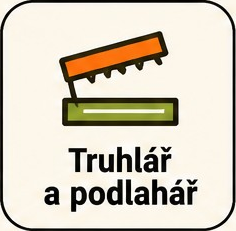
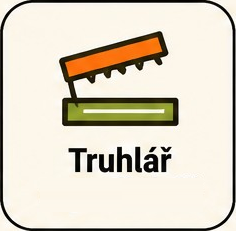
Rename Truhlář and podlahář category to Truhlář

Changed region(s): [[0.2966, 0.7576, 0.8602, 0.9394], [0.178, 0.7879, 0.2669, 0.9091]]

diff --git a/index.html b/index.html
@@ -740,7 +740,7 @@ html body .hero-copy h1 em::after{all:unset!important;content:none!important;dis
 <section class="request" id="poptavka">
 <form id="repair-form">
 <div class="form-grid">
-<div class="field"><label for="type">Typ opravy</label><div class="input-wrap"><svg viewBox="0 0 24 24" fill="none" stroke="currentColor" stroke-width="2"><path d="m14.7 6.3 3 3M3 21l7.6-7.6M15 5l4-4 4 4-4 4M2 2l6 6m-3-7 6 6"/></svg><select id="type" aria-required="true"><option value="">Vyberte typ opravy</option><option>Instalatér</option><option>Elektrikář</option><option>Spotřebiče</option><option>Dveře a okna</option><option>Střecha</option><option>Hodinový manžel</option><option>Zedník a obkladač</option><option>Malíř a natěrač</option><option>Pokrývač a klempíř</option><option>Truhlář a podlahář</option><option>Topenář</option><option>Ploty a brány</option><option>Zámečník</option><option>Klimatizace a vzduchotechnika</option><option>Žaluzie a rolety</option><option>Sklenář</option><option>Podlahář</option><option>Sádrokartonář</option><option>Fasády a zateplení</option><option>Kominík</option><option>Opravy garážových vrat</option><option>Zahradník</option><option>Úklid a čištění</option><option>Výkopové práce</option><option>Bourací a demoliční práce</option></select><div class="repair-type-picker" id="repair-type-picker"><button class="repair-type-trigger" type="button" aria-haspopup="listbox" aria-expanded="false" aria-controls="repair-type-options"><span id="repair-type-label">Vyberte typ opravy</span><svg viewBox="0 0 24 24" aria-hidden="true"><path d="m6 9 6 6 6-6"/></svg></button><div class="repair-type-options" id="repair-type-options" role="listbox" aria-label="Typ opravy" hidden></div></div></div></div>
+<div class="field"><label for="type">Typ opravy</label><div class="input-wrap"><svg viewBox="0 0 24 24" fill="none" stroke="currentColor" stroke-width="2"><path d="m14.7 6.3 3 3M3 21l7.6-7.6M15 5l4-4 4 4-4 4M2 2l6 6m-3-7 6 6"/></svg><select id="type" aria-required="true"><option value="">Vyberte typ opravy</option><option>Instalatér</option><option>Elektrikář</option><option>Spotřebiče</option><option>Dveře a okna</option><option>Střecha</option><option>Hodinový manžel</option><option>Zedník a obkladač</option><option>Malíř a natěrač</option><option>Pokrývač a klempíř</option><option>Truhlář</option><option>Topenář</option><option>Ploty a brány</option><option>Zámečník</option><option>Klimatizace a vzduchotechnika</option><option>Žaluzie a rolety</option><option>Sklenář</option><option>Podlahář</option><option>Sádrokartonář</option><option>Fasády a zateplení</option><option>Kominík</option><option>Opravy garážových vrat</option><option>Zahradník</option><option>Úklid a čištění</option><option>Výkopové práce</option><option>Bourací a demoliční práce</option></select><div class="repair-type-picker" id="repair-type-picker"><button class="repair-type-trigger" type="button" aria-haspopup="listbox" aria-expanded="false" aria-controls="repair-type-options"><span id="repair-type-label">Vyberte typ opravy</span><svg viewBox="0 0 24 24" aria-hidden="true"><path d="m6 9 6 6 6-6"/></svg></button><div class="repair-type-options" id="repair-type-options" role="listbox" aria-label="Typ opravy" hidden></div></div></div></div>
 <div class="field"><label for="place">Město / PSČ</label><div class="input-wrap"><svg viewBox="0 0 24 24" fill="none" stroke="currentColor" stroke-width="2" aria-hidden="true"><path d="M20 10c0 5-8 12-8 12S4 15 4 10a8 8 0 1 1 16 0Z"/><circle cx="12" cy="10" r="2.5"/></svg><input id="place" placeholder="Např. Praha, 120 00" required><button id="place-geolocate" class="place-locate" type="button" aria-label="Použít moji polohu" title="Použít moji polohu"><svg viewBox="0 0 24 24" aria-hidden="true"><circle cx="12" cy="12" r="7"/><circle cx="12" cy="12" r="2"/><path d="M12 1v4m0 14v4M1 12h4m14 0h4"/></svg></button></div><p id="place-location-feedback" class="location-feedback" role="status" aria-live="polite"></p></div>
 <div class="field"><label for="contact">Telefonní číslo *</label><div class="input-wrap"><svg viewBox="0 0 24 24" fill="none" stroke="currentColor" stroke-width="2"><rect x="2" y="5" width="20" height="14" rx="2"/><path d="m3 7 9 7 9-7"/></svg><input id="contact" type="tel" inputmode="tel" placeholder="Např. +420 777 123 456" autocomplete="tel" minlength="9" maxlength="25" pattern="[+0-9 ()-]{9,25}" title="Zadejte platné telefonní číslo (alespoň 9 číslic)" required></div></div>
 <div class="field"><label for="customer-email">E-mail *</label><div class="input-wrap"><svg viewBox="0 0 24 24" fill="none" stroke="currentColor" stroke-width="2" aria-hidden="true"><rect x="2" y="5" width="20" height="14" rx="2"/><path d="m3 7 9 7 9-7"/></svg><input id="customer-email" type="email" autocomplete="email" placeholder="vas@email.cz" maxlength="254" required></div></div>
@@ -748,7 +748,7 @@ html body .hero-copy h1 em::after{all:unset!important;content:none!important;dis
 </div><p class="privacy-consent">Odesláním poptávky berete na vědomí <a href="/ochrana-osobnich-udaju.html">informace o zpracování osobních údajů</a> a <a href="/podminky.html">podmínky služby</a>.</p><div class="privacy-consent" style="margin-top:10px"><label style="display:flex;align-items:flex-start;gap:8px;cursor:pointer"><input id="coupon-opt-in" type="checkbox" style="margin-top:3px;accent-color:#e94e1b"><span>Chci dostávat e-mailem slevové kupóny a nabídky Opravao.cz podle svého kraje a typu opravy. Souhlas je dobrovolný a lze ho kdykoliv odvolat.</span></label><div id="coupon-region-wrap" hidden style="margin:10px 0 0 26px"><label for="coupon-region" style="display:block;font-weight:700;margin-bottom:6px">Kraj pro nabídky</label><select id="coupon-region" style="width:100%;max-width:420px;padding:10px;border:1px solid #d8d4ca;border-radius:7px;background:#fff"><option value="">Vyberte kraj</option><option>Hlavní město Praha</option><option>Středočeský kraj</option><option>Jihočeský kraj</option><option>Plzeňský kraj</option><option>Karlovarský kraj</option><option>Ústecký kraj</option><option>Liberecký kraj</option><option>Královéhradecký kraj</option><option>Pardubický kraj</option><option>Kraj Vysočina</option><option>Jihomoravský kraj</option><option>Olomoucký kraj</option><option>Zlínský kraj</option><option>Moravskoslezský kraj</option></select></div></div><p id="status" role="status"></p>
 </form>
 </section>
-<section class="services" aria-label="Nejčastější opravy"><div class="service-row"><button class="service" type="button" aria-pressed="false"><img class="service-exact-art" src="/assets/service-icons/service-01.webp" alt="" decoding="async"><span class="service-label">Instalatér</span></button><button class="service" type="button" aria-pressed="false"><img class="service-exact-art" src="/assets/service-icons/service-02.webp" alt="" decoding="async"><span class="service-label">Elektrikář</span></button><button class="service" type="button" aria-pressed="false"><img class="service-exact-art" src="/assets/service-icons/service-03.webp" alt="" decoding="async"><span class="service-label">Spotřebiče</span></button><button class="service" type="button" aria-pressed="false"><img class="service-exact-art" src="/assets/service-icons/service-04.webp" alt="" decoding="async"><span class="service-label">Dveře<br>a okna</span></button><button class="service" type="button" aria-pressed="false"><img class="service-exact-art" src="/assets/service-icons/service-05.webp" alt="" decoding="async"><span class="service-label">Střecha</span></button><button class="service" type="button" aria-pressed="false"><img class="service-exact-art" src="/assets/service-icons/service-06.webp" alt="" decoding="async"><span class="service-label">Hodinový<br>manžel</span></button></div><div class="service-row"><button class="service" type="button" aria-pressed="false"><img class="service-exact-art" src="/assets/service-icons/service-07.webp" alt="" decoding="async"><span class="service-label">Zedník a obkladač</span></button><button class="service" type="button" aria-pressed="false"><img class="service-exact-art" src="/assets/service-icons/service-08.webp" alt="" decoding="async"><span class="service-label">Malíř a natěrač</span></button><button class="service" type="button" aria-pressed="false"><img class="service-exact-art" src="/assets/service-icons/service-09.webp" alt="" decoding="async"><span class="service-label">Pokrývač a klempíř</span></button><button class="service" type="button" aria-pressed="false"><img class="service-exact-art" src="/assets/service-icons/service-10.webp" alt="" decoding="async"><span class="service-label">Truhlář a podlahář</span></button><button class="service" type="button" aria-pressed="false"><img class="service-exact-art" src="/assets/service-icons/service-11.webp" alt="" decoding="async"><span class="service-label">Topenář</span></button><button class="service" type="button" aria-pressed="false"><img class="service-exact-art" src="/assets/service-icons/service-12.webp" alt="" decoding="async"><span class="service-label">Ploty a brány</span></button></div><div class="service-row"><button class="service" type="button" aria-pressed="false"><img class="service-exact-art" src="/assets/service-icons/service-13.webp" alt="" decoding="async"><span class="service-label">Zámečník</span></button><button class="service" type="button" aria-pressed="false"><img class="service-exact-art" src="/assets/service-icons/service-14.webp" alt="" decoding="async"><span class="service-label">Klimatizace a vzduchotechnika</span></button><button class="service" type="button" aria-pressed="false"><img class="service-exact-art" src="/assets/service-icons/service-15.webp" alt="" decoding="async"><span class="service-label">Žaluzie a rolety</span></button><button class="service" type="button" aria-pressed="false"><img class="service-exact-art" src="/assets/service-icons/service-16.webp" alt="" decoding="async"><span class="service-label">Sklenář</span></button><button class="service" type="button" aria-pressed="false"><img class="service-exact-art" src="/assets/service-icons/service-17.webp" alt="" decoding="async"><span class="service-label">Podlahář</span></button><button class="service" type="button" aria-pressed="false"><img class="service-exact-art" src="/assets/service-icons/service-18.webp" alt="" decoding="async"><span class="service-label">Sádrokartonář</span></button></div><div class="service-row"><button class="service" type="button" aria-pressed="false"><img class="service-exact-art" src="/assets/service-icons/service-19.webp" alt="" decoding="async"><span class="service-label">Fasády a zateplení</span></button><button class="service" type="button" aria-pressed="false"><img class="service-exact-art" src="/assets/service-icons/service-20.webp" alt="" decoding="async"><span class="service-label">Kominík</span></button><button class="service" type="button" aria-pressed="false"><img class="service-exact-art" src="/assets/service-icons/service-21.webp" alt="" decoding="async"><span class="service-label">Opravy garážových vrat</span></button><button class="service" type="button" aria-pressed="false"><img class="service-exact-art" src="/assets/service-icons/service-22.webp" alt="" decoding="async"><span class="service-label">Zahradník</span></button><button class="service" type="button" aria-pressed="false"><img class="service-exact-art" src="/assets/service-icons/service-23.webp" alt="" decoding="async"><span class="service-label">Úklid a čištění</span></button><button class="service" type="button" aria-pressed="false"><img class="service-exact-art" src="/assets/service-icons/service-24.webp" alt="" decoding="async"><span class="service-label">Výkopové práce</span></button><button class="service" type="button" aria-pressed="false"><img class="service-exact-art" src="/assets/service-icons/service-25.webp" alt="" decoding="async"><span class="service-label">Bourací a demoliční práce</span></button></div></section>
+<section class="services" aria-label="Nejčastější opravy"><div class="service-row"><button class="service" type="button" aria-pressed="false"><img class="service-exact-art" src="/assets/service-icons/service-01.webp" alt="" decoding="async"><span class="service-label">Instalatér</span></button><button class="service" type="button" aria-pressed="false"><img class="service-exact-art" src="/assets/service-icons/service-02.webp" alt="" decoding="async"><span class="service-label">Elektrikář</span></button><button class="service" type="button" aria-pressed="false"><img class="service-exact-art" src="/assets/service-icons/service-03.webp" alt="" decoding="async"><span class="service-label">Spotřebiče</span></button><button class="service" type="button" aria-pressed="false"><img class="service-exact-art" src="/assets/service-icons/service-04.webp" alt="" decoding="async"><span class="service-label">Dveře<br>a okna</span></button><button class="service" type="button" aria-pressed="false"><img class="service-exact-art" src="/assets/service-icons/service-05.webp" alt="" decoding="async"><span class="service-label">Střecha</span></button><button class="service" type="button" aria-pressed="false"><img class="service-exact-art" src="/assets/service-icons/service-06.webp" alt="" decoding="async"><span class="service-label">Hodinový<br>manžel</span></button></div><div class="service-row"><button class="service" type="button" aria-pressed="false"><img class="service-exact-art" src="/assets/service-icons/service-07.webp" alt="" decoding="async"><span class="service-label">Zedník a obkladač</span></button><button class="service" type="button" aria-pressed="false"><img class="service-exact-art" src="/assets/service-icons/service-08.webp" alt="" decoding="async"><span class="service-label">Malíř a natěrač</span></button><button class="service" type="button" aria-pressed="false"><img class="service-exact-art" src="/assets/service-icons/service-09.webp" alt="" decoding="async"><span class="service-label">Pokrývač a klempíř</span></button><button class="service" type="button" aria-pressed="false"><img class="service-exact-art" src="/assets/service-icons/service-10.webp" alt="" decoding="async"><span class="service-label">Truhlář</span></button><button class="service" type="button" aria-pressed="false"><img class="service-exact-art" src="/assets/service-icons/service-11.webp" alt="" decoding="async"><span class="service-label">Topenář</span></button><button class="service" type="button" aria-pressed="false"><img class="service-exact-art" src="/assets/service-icons/service-12.webp" alt="" decoding="async"><span class="service-label">Ploty a brány</span></button></div><div class="service-row"><button class="service" type="button" aria-pressed="false"><img class="service-exact-art" src="/assets/service-icons/service-13.webp" alt="" decoding="async"><span class="service-label">Zámečník</span></button><button class="service" type="button" aria-pressed="false"><img class="service-exact-art" src="/assets/service-icons/service-14.webp" alt="" decoding="async"><span class="service-label">Klimatizace a vzduchotechnika</span></button><button class="service" type="button" aria-pressed="false"><img class="service-exact-art" src="/assets/service-icons/service-15.webp" alt="" decoding="async"><span class="service-label">Žaluzie a rolety</span></button><button class="service" type="button" aria-pressed="false"><img class="service-exact-art" src="/assets/service-icons/service-16.webp" alt="" decoding="async"><span class="service-label">Sklenář</span></button><button class="service" type="button" aria-pressed="false"><img class="service-exact-art" src="/assets/service-icons/service-17.webp" alt="" decoding="async"><span class="service-label">Podlahář</span></button><button class="service" type="button" aria-pressed="false"><img class="service-exact-art" src="/assets/service-icons/service-18.webp" alt="" decoding="async"><span class="service-label">Sádrokartonář</span></button></div><div class="service-row"><button class="service" type="button" aria-pressed="false"><img class="service-exact-art" src="/assets/service-icons/service-19.webp" alt="" decoding="async"><span class="service-label">Fasády a zateplení</span></button><button class="service" type="button" aria-pressed="false"><img class="service-exact-art" src="/assets/service-icons/service-20.webp" alt="" decoding="async"><span class="service-label">Kominík</span></button><button class="service" type="button" aria-pressed="false"><img class="service-exact-art" src="/assets/service-icons/service-21.webp" alt="" decoding="async"><span class="service-label">Opravy garážových vrat</span></button><button class="service" type="button" aria-pressed="false"><img class="service-exact-art" src="/assets/service-icons/service-22.webp" alt="" decoding="async"><span class="service-label">Zahradník</span></button><button class="service" type="button" aria-pressed="false"><img class="service-exact-art" src="/assets/service-icons/service-23.webp" alt="" decoding="async"><span class="service-label">Úklid a čištění</span></button><button class="service" type="button" aria-pressed="false"><img class="service-exact-art" src="/assets/service-icons/service-24.webp" alt="" decoding="async"><span class="service-label">Výkopové práce</span></button><button class="service" type="button" aria-pressed="false"><img class="service-exact-art" src="/assets/service-icons/service-25.webp" alt="" decoding="async"><span class="service-label">Bourací a demoliční práce</span></button></div></section>
 <section id="lokalita" class="location-section" aria-labelledby="location-heading">
 <p class="eyebrow">01 / LOKALITA</p><h2 id="location-heading">Kde potřebujete opravu?</h2><p>Vyberte místo na mapě nebo vyhledejte obec či PSČ.</p>
 <form id="location-search" class="location-search"><label for="location-query">Město, obec nebo PSČ</label><div><div class="location-input-wrap"><input id="location-query" placeholder="Zadejte město, obec nebo PSČ" required minlength="2"><button id="location-geolocate" class="location-locate" type="button" aria-label="Použít moji polohu" title="Moje poloha"><svg viewBox="0 0 24 24" width="22" height="22" fill="none" stroke="currentColor" stroke-width="2" aria-hidden="true"><circle cx="12" cy="12" r="7"/><circle cx="12" cy="12" r="2"/><path d="M12 1v4m0 14v4M1 12h4m14 0h4"/></svg><span>Moje poloha</span></button></div><span id="map-location-feedback" class="location-feedback" role="status" aria-live="polite"></span><button class="btn" type="submit">Vyhledat →</button></div></form>
